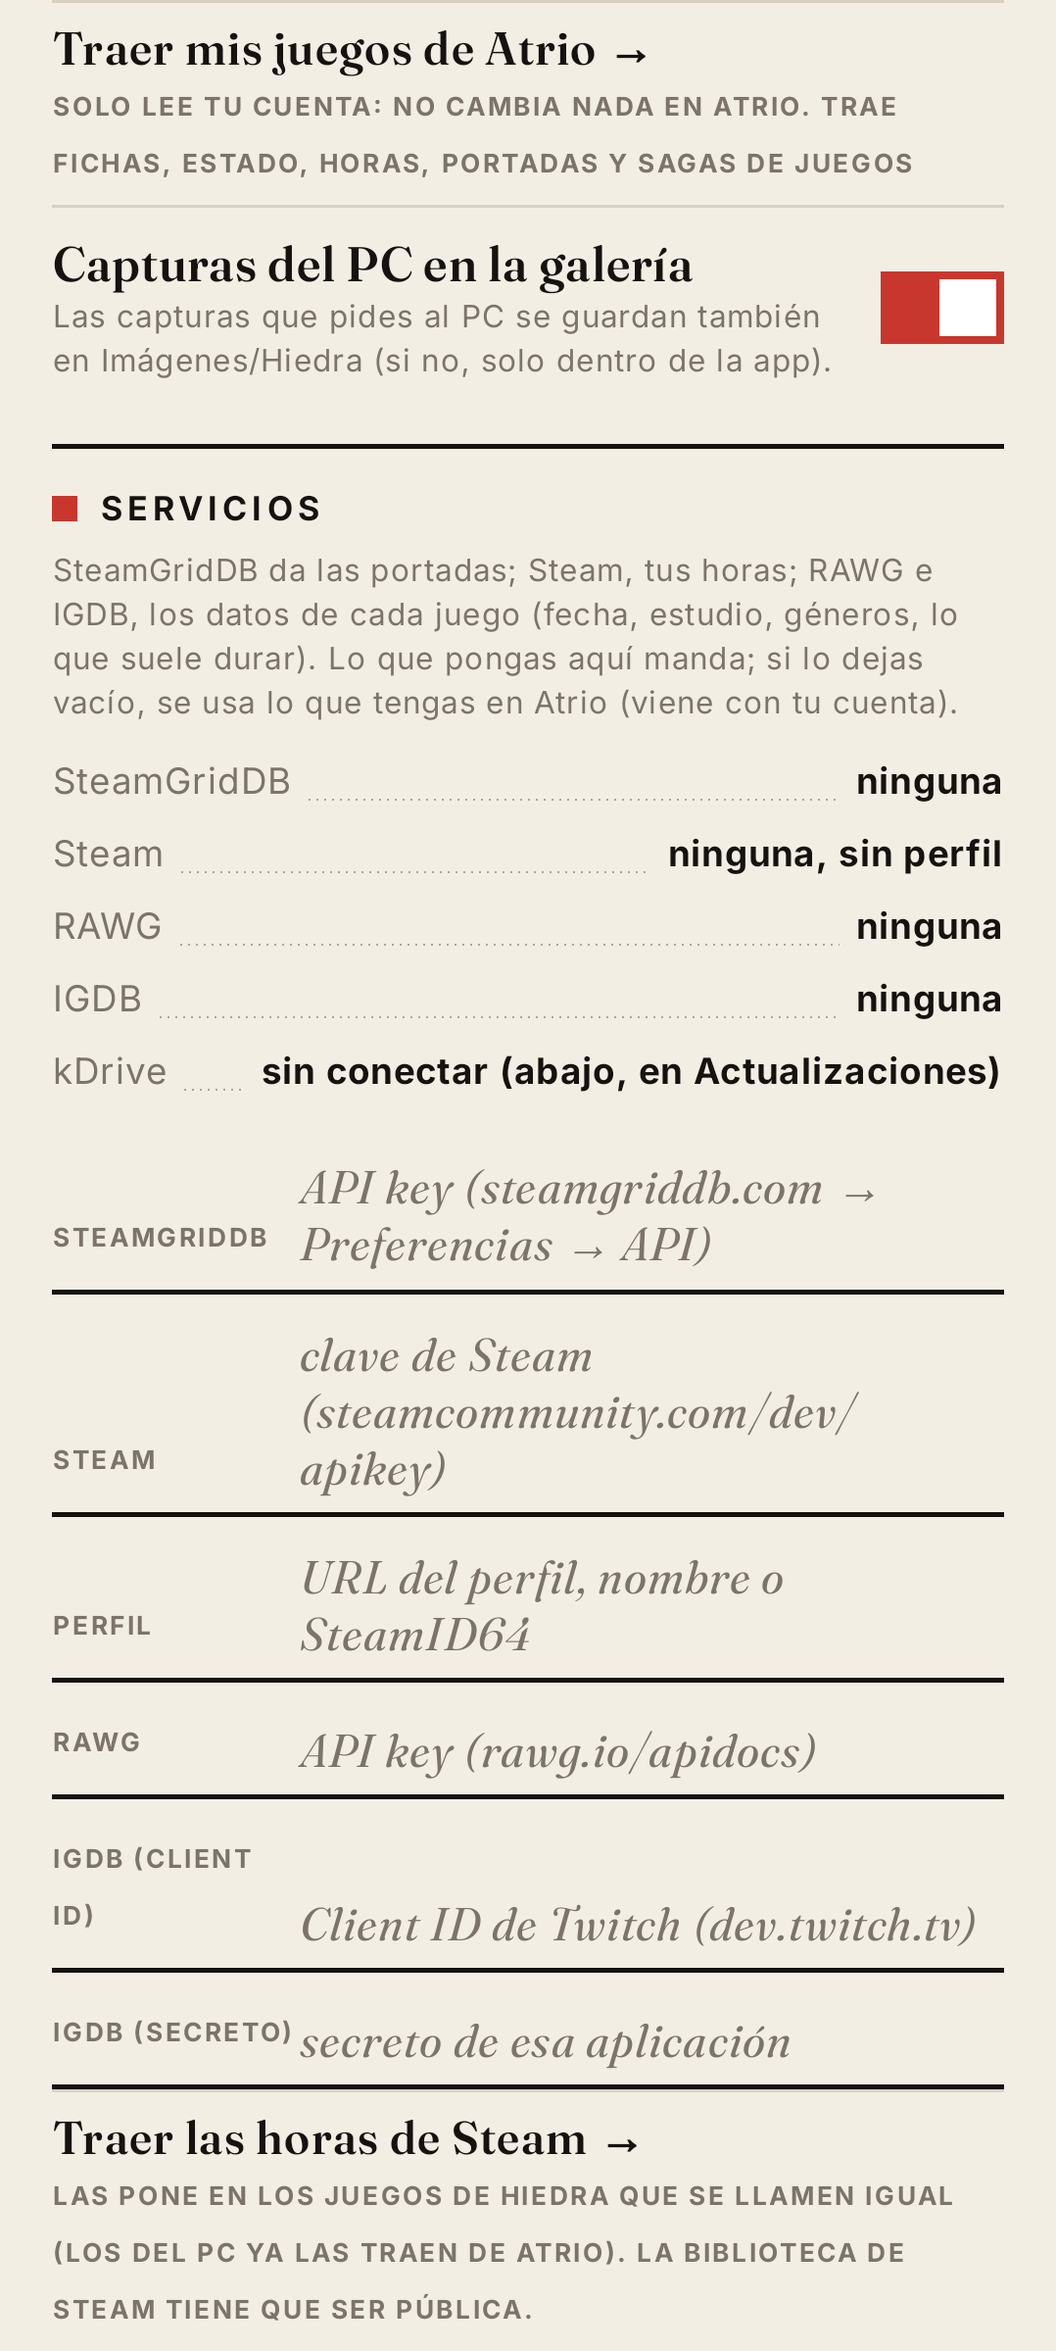
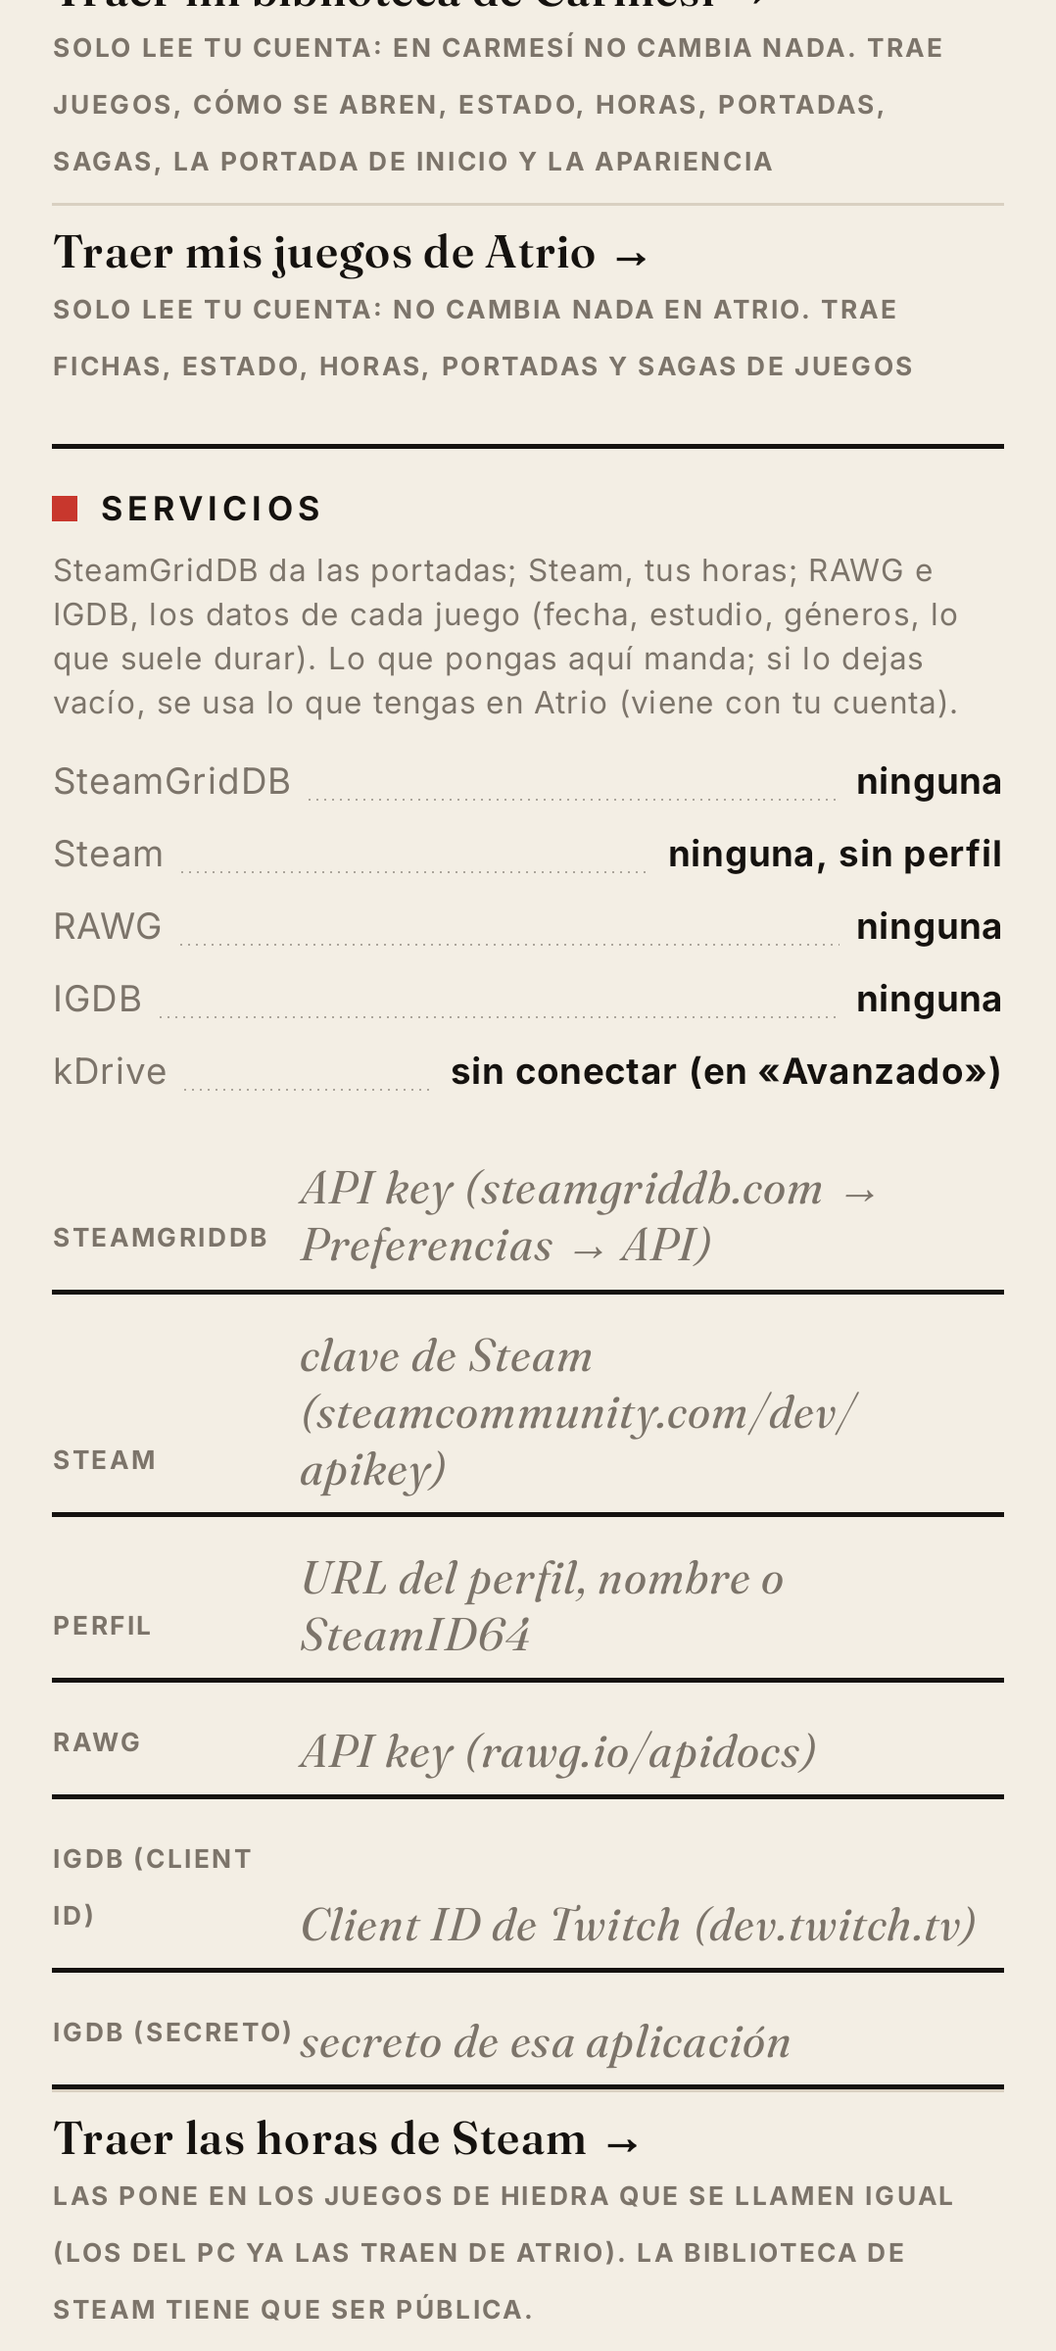
Hiedra 0.3.0: Ajustes en pestañas y la caja automática para Azabache
- Ajustes en pestañas, como Atrio: Apariencia · Juegos (sistemas, portadas
  automáticas, pantalla de inicio, capturas del PC) · Servicios (cuenta de Atrio,
  traer de Carmesí y de Atrio, claves) · Avanzado (kDrive y actualizaciones, copias).
- Un juego sin portada tuya publica la dirección de su caja de libretro («pa»)
  para que Azabache enseñe la misma caja.
- Textos que apuntaban a «Ajustes → Actualizaciones» apuntan a «Avanzado»; la
  cuenta ya no dice que las ROMs no se suben.
- Capturas nuevas de las pestañas. 94 pruebas, 0 fallos.

Claude-Session: https://claude.ai/code/session_01Q4uywen3nuzUg5CTwJaCY5

Changed region(s): [[0.0306, 0.0, 0.949, 0.1851], [0.551, 0.4318, 0.949, 0.4627], [0.2449, 0.4318, 0.5204, 0.4627]]

diff --git a/app/src/main/java/com/gonzalo/hiedra/PantEstilo.kt b/app/src/main/java/com/gonzalo/hiedra/PantEstilo.kt
@@ -15,6 +15,7 @@ import androidx.compose.foundation.rememberScrollState
 import androidx.compose.foundation.verticalScroll
 import androidx.compose.material3.Text
 import androidx.compose.runtime.*
+import androidx.compose.runtime.saveable.rememberSaveable
 import androidx.compose.ui.Alignment
 import androidx.compose.ui.Modifier
 import androidx.compose.ui.graphics.Color
@@ -36,7 +37,7 @@ import androidx.compose.material3.TextButton
 import kotlinx.coroutines.Dispatchers
 import kotlinx.coroutines.withContext
 
-const val VERSION = "0.2.1"
+const val VERSION = "0.3.0"
 
 private fun aliasInicio(c: Context) = ComponentName(c, "com.gonzalo.hiedra.InicioAlias")
 private fun esInicio(c: Context) = c.packageManager.getComponentEnabledSetting(aliasInicio(c)) == PackageManager.COMPONENT_ENABLED_STATE_ENABLED
@@ -55,76 +56,73 @@ fun PantEstilo(alVolver: () -> Unit, alSistemas: () -> Unit = {}) {
     val importar = rememberLauncherForActivityResult(ActivityResultContracts.OpenDocument()) { u ->
         if (u != null) mensaje = runCatching { Biblioteca.leer(ctx.contentResolver.openInputStream(u)!!.use { it.readBytes().decodeToString() }, reemplazar = false); Biblioteca.guardar(); "Copia importada" }.getOrElse { "Ese archivo no es una copia de Hiedra" }
     }
+    var pestana by rememberSaveable { mutableIntStateOf(0) }
     Column(Modifier.fillMaxSize().background(Paper).verticalScroll(rememberScrollState()).statusBarsPadding().navigationBarsPadding().padding(horizontal = 20.dp)) {
         RevistaTopBar(alVolver, "Hiedra")
         Antetitulo("Sección", Modifier.padding(top = 10.dp), color = Acento, conCuadro = false)
         FitTitle("Ajustes", 52.sp, 56.sp, letterSpacing = (-1.5).sp, modifier = Modifier.padding(top = 2.dp), unaLinea = true)
         Filete(3.dp)
+        PestanasRevista(listOf("Apariencia", "Juegos", "Servicios", "Avanzado"), pestana) { pestana = it }
         Spacer(Modifier.height(14.dp))
 
-        SeccionApariencia()
-
-        Spacer(Modifier.height(14.dp))
-        Filete(2.dp)
-        Spacer(Modifier.height(12.dp))
-        Antetitulo("Sistemas", Modifier.padding(bottom = 4.dp))
-        MagLink("Sistemas y emuladores", "Cada consola, con el emulador que elijas, y las carpetas de ROMs", onClick = alSistemas)
-
-        Spacer(Modifier.height(26.dp))
-        Filete(2.dp)
-        Spacer(Modifier.height(12.dp))
-        Antetitulo("Portadas", Modifier.padding(bottom = 4.dp))
-        Fila("Portadas automáticas", "Busca la caja de cada ROM en thumbnails.libretro.com (se envía el nombre del archivo). Si lo desactivas no sale nada a internet.") {
-            Interruptor(Ajustes.portadasLibretro) { Ajustes.portadasLibretro = it; Ajustes.guardar(ctx) }
-        }
-
-        Spacer(Modifier.height(14.dp))
-        Filete(2.dp)
-        Spacer(Modifier.height(12.dp))
-        Antetitulo("Pantalla de inicio", Modifier.padding(bottom = 4.dp))
-        Fila("Usar Hiedra como launcher", if (inicio) "Hiedra ya puede elegirse como pantalla de inicio del móvil." else "Permite elegir Hiedra como pantalla de inicio (Android te lo pregunta).") {
-            Interruptor(inicio) { on ->
-                ctx.packageManager.setComponentEnabledSetting(aliasInicio(ctx), if (on) PackageManager.COMPONENT_ENABLED_STATE_ENABLED else PackageManager.COMPONENT_ENABLED_STATE_DISABLED, PackageManager.DONT_KILL_APP)
-                inicio = on
-                if (on) runCatching { ctx.startActivity(Intent(Settings.ACTION_HOME_SETTINGS).addFlags(Intent.FLAG_ACTIVITY_NEW_TASK)) }
+        when (pestana) {
+            0 -> SeccionApariencia()
+            1 -> {
+                Antetitulo("Sistemas", Modifier.padding(bottom = 4.dp))
+                MagLink("Sistemas y emuladores", "Cada consola, con el emulador que elijas, y las carpetas de ROMs", onClick = alSistemas)
+                Spacer(Modifier.height(26.dp))
+                Filete(2.dp)
+                Spacer(Modifier.height(12.dp))
+                Antetitulo("Portadas", Modifier.padding(bottom = 4.dp))
+                Fila("Portadas automáticas", "Busca la caja de cada ROM en thumbnails.libretro.com (se envía el nombre del archivo). Si lo desactivas no sale nada a internet. Azabache enseña esa misma caja mientras no pongas otra portada.") {
+                    Interruptor(Ajustes.portadasLibretro) { Ajustes.portadasLibretro = it; Ajustes.guardar(ctx) }
+                }
+                Spacer(Modifier.height(14.dp))
+                Filete(2.dp)
+                Spacer(Modifier.height(12.dp))
+                Antetitulo("Pantalla de inicio", Modifier.padding(bottom = 4.dp))
+                Fila("Usar Hiedra como launcher", if (inicio) "Hiedra ya puede elegirse como pantalla de inicio del móvil." else "Permite elegir Hiedra como pantalla de inicio (Android te lo pregunta).") {
+                    Interruptor(inicio) { on ->
+                        ctx.packageManager.setComponentEnabledSetting(aliasInicio(ctx), if (on) PackageManager.COMPONENT_ENABLED_STATE_ENABLED else PackageManager.COMPONENT_ENABLED_STATE_DISABLED, PackageManager.DONT_KILL_APP)
+                        inicio = on
+                        if (on) runCatching { ctx.startActivity(Intent(Settings.ACTION_HOME_SETTINGS).addFlags(Intent.FLAG_ACTIVITY_NEW_TASK)) }
+                    }
+                }
+                Spacer(Modifier.height(14.dp))
+                Filete(2.dp)
+                Spacer(Modifier.height(12.dp))
+                Antetitulo("Tu PC", Modifier.padding(bottom = 4.dp))
+                var galeria by remember { mutableStateOf(Suite.aGaleria()) }
+                Fila("Capturas del PC en la galería", "Las capturas que pides al PC se guardan también en Imágenes/Hiedra (si no, solo dentro de la app).") {
+                    Interruptor(galeria) { galeria = it; Suite.ponAGaleria(it) }
+                }
+            }
+            2 -> {
+                Antetitulo("Cuenta de Atrio", Modifier.padding(bottom = 4.dp))
+                SeccionCuenta()
+                Filete(1.dp, Line)
+                SeccionImportarCarmesi()
+                Filete(1.dp, Line)
+                SeccionImportarAtrio()
+                Spacer(Modifier.height(14.dp))
+                Filete(2.dp)
+                Spacer(Modifier.height(12.dp))
+                Antetitulo("Servicios", Modifier.padding(bottom = 4.dp))
+                SeccionServicios()
+            }
+            else -> {
+                Antetitulo("kDrive y actualizaciones", Modifier.padding(bottom = 4.dp))
+                SeccionActualizaciones()
+                Spacer(Modifier.height(14.dp))
+                Filete(2.dp)
+                Spacer(Modifier.height(12.dp))
+                Antetitulo("Copias", Modifier.padding(bottom = 4.dp))
+                MagLink("Guardar copia de la biblioteca", "Un archivo con tus juegos y carpetas (no incluye las ROMs)") { exportar.launch("hiedra-biblioteca.json") }
+                Filete(1.dp, Line)
+                MagLink("Importar copia", "Suma los juegos de una copia a los que ya tienes") { importar.launch(arrayOf("application/json", "*/*")) }
+                mensaje?.let { Text(it, color = Acento, fontFamily = Display, fontStyle = FontStyle.Italic, fontSize = 15.sp, modifier = Modifier.padding(top = 4.dp)) }
             }
         }
-
-        Spacer(Modifier.height(14.dp))
-        Filete(2.dp)
-        Spacer(Modifier.height(12.dp))
-        Antetitulo("Cuenta de Atrio", Modifier.padding(bottom = 4.dp))
-        SeccionCuenta()
-        Filete(1.dp, Line)
-        SeccionImportarCarmesi()
-        Filete(1.dp, Line)
-        SeccionImportarAtrio()
-        Filete(1.dp, Line)
-        var galeria by remember { mutableStateOf(Suite.aGaleria()) }
-        Fila("Capturas del PC en la galería", "Las capturas que pides al PC se guardan también en Imágenes/Hiedra (si no, solo dentro de la app).") {
-            Interruptor(galeria) { galeria = it; Suite.ponAGaleria(it) }
-        }
-
-        Spacer(Modifier.height(14.dp))
-        Filete(2.dp)
-        Spacer(Modifier.height(12.dp))
-        Antetitulo("Servicios", Modifier.padding(bottom = 4.dp))
-        SeccionServicios()
-
-        Spacer(Modifier.height(14.dp))
-        Filete(2.dp)
-        Spacer(Modifier.height(12.dp))
-        Antetitulo("Actualizaciones", Modifier.padding(bottom = 4.dp))
-        SeccionActualizaciones()
-
-        Spacer(Modifier.height(14.dp))
-        Filete(2.dp)
-        Spacer(Modifier.height(12.dp))
-        Antetitulo("Copias", Modifier.padding(bottom = 4.dp))
-        MagLink("Guardar copia de la biblioteca", "Un archivo con tus juegos y carpetas (no incluye las ROMs)") { exportar.launch("hiedra-biblioteca.json") }
-        Filete(1.dp, Line)
-        MagLink("Importar copia", "Suma los juegos de una copia a los que ya tienes") { importar.launch(arrayOf("application/json", "*/*")) }
-        mensaje?.let { Text(it, color = Acento, fontFamily = Display, fontStyle = FontStyle.Italic, fontSize = 15.sp, modifier = Modifier.padding(top = 4.dp)) }
 
         Spacer(Modifier.height(26.dp))
         Filete(3.dp)
@@ -163,7 +161,7 @@ private fun SeccionCuenta() {
     var ocupado by remember { mutableStateOf(false) }
     var aviso by remember { mutableStateOf<String?>(null) }
     if (!Cuenta.vinculada) {
-        Text("Entra con la misma cuenta que usas en Atrio y tus juegos, horas, notas y diseños de ficha se sincronizan entre tus Hiedras. Las ROMs, los guardados y las imágenes no se suben (todavía).",
+        Text("Entra con la misma cuenta que usas en Atrio y tus juegos, horas, notas y diseños de ficha se sincronizan entre tus Hiedras. Las ROMs, los guardados y las portadas van por tu kDrive (se conecta en «Avanzado»).",
             color = Muted, fontFamily = Body, fontSize = 12.sp, lineHeight = 17.sp, modifier = Modifier.padding(top = 4.dp))
         CampoRevista("Usuario", usuario, "tu usuario de Atrio") { usuario = it }
         CampoRevista("Contraseña", clave, "••••••••", secreto = true) { clave = it }

diff --git a/app/src/test/java/com/gonzalo/hiedra/CapturasTest.kt b/app/src/test/java/com/gonzalo/hiedra/CapturasTest.kt
@@ -114,6 +114,10 @@ class CapturasTest {
         rule.onNodeWithText("VER LA SAGA →", useUnmergedTree = true).performClick(); foto("3g_pagina_saga")
         pulsar("← VOLVER")
         pulsar("← HIEDRA"); rule.onNodeWithContentDescription("Ajustes").performClick(); foto("5_ajustes")
+        rule.onNodeWithText("JUEGOS").performClick(); rule.waitForIdle(); foto("5b_ajustes_juegos")
+        rule.onNodeWithText("SERVICIOS").performClick(); rule.waitForIdle(); foto("5c_ajustes_servicios")
+        rule.onNodeWithText("AVANZADO").performClick(); rule.waitForIdle(); foto("5d_ajustes_avanzado")
+        rule.onNodeWithText("JUEGOS").performClick(); rule.waitForIdle()
         rule.onNodeWithText("Sistemas y emuladores", substring = true).performScrollTo().performClick(); foto("4_sistemas")
         pulsar("← HIEDRA"); pulsar("← HIEDRA"); ir("PASADO")
         rule.onAllNodesWithText("Pokémon Esmeralda", substring = true, useUnmergedTree = true)[0].performClick(); foto("6_ficha")
@@ -207,6 +211,7 @@ class CapturasTest {
         siembra()
         montar(oscuro = false)
         rule.onNodeWithContentDescription("Ajustes").performClick()
+        rule.onNodeWithText("SERVICIOS").performClick(); rule.waitForIdle()
         rule.onNodeWithText("Traer las horas de Steam", substring = true).performScrollTo(); foto("31_ajustes_servicios")
     }
 

diff --git a/app/src/main/java/com/gonzalo/hiedra/Servicios.kt b/app/src/main/java/com/gonzalo/hiedra/Servicios.kt
@@ -247,7 +247,7 @@ fun SeccionServicios() {
     /** Qué hay de cada clave: la tuya, la de Atrio o ninguna. */
     fun estado(mia: String, deAtrio: String) = when { mia.isNotBlank() -> "la tuya"; deAtrio.isNotBlank() -> "la de Atrio"; else -> "ninguna" }
     val resumen = listOf("SteamGridDB" to estado(p.sgdb, atrio.sgdb), "Steam" to estado(p.steamKey, atrio.steamKey) + (if (p.steamUser.isBlank() && atrio.steamUser.isBlank()) ", sin perfil" else ""),
-        "RAWG" to estado(p.rawg, atrio.rawg), "IGDB" to estado(p.igdbId, atrio.igdbId), "kDrive" to (if (KDrive.on(ctx)) "conectado" else "sin conectar (abajo, en Actualizaciones)"))
+        "RAWG" to estado(p.rawg, atrio.rawg), "IGDB" to estado(p.igdbId, atrio.igdbId), "kDrive" to (if (KDrive.on(ctx)) "conectado" else "sin conectar (en «Avanzado»)"))
     Cuerpo("SteamGridDB da las portadas; Steam, tus horas; RAWG e IGDB, los datos de cada juego (fecha, estudio, géneros, lo que suele durar). Lo que pongas aquí manda; si lo dejas vacío, se usa lo que tengas en Atrio (viene con tu cuenta).", tam = 12)
     Column(Modifier.fillMaxWidth().padding(top = 8.dp, bottom = 6.dp)) { resumen.forEach { (n, v) -> MagFact(n, v) } }
     if (mirando) Text("Mirando las de Atrio…", color = Muted, fontFamily = Display, fontStyle = FontStyle.Italic, fontSize = 14.sp)

diff --git a/app/src/main/java/com/gonzalo/hiedra/Mezcla.kt b/app/src/main/java/com/gonzalo/hiedra/Mezcla.kt
@@ -37,6 +37,8 @@ object Mezcla {
         .put("ez", j.zoom.toDouble()).put("eox", j.ox.toDouble()).put("eoy", j.oy.toDouble()).put("dh", j.durHistoria).put("de", j.durExtras).put("dc", j.durCompleto)
         .put("k", JSONArray().also { a -> j.otrasClaves.forEach { a.put(it) } })
         .put("ln", JSONArray().also { a -> j.lanzadores.forEach { a.put(it.aJson()) } })
+        // La portada automática (la caja de libretro de una ROM), para que Azabache enseñe la misma que aquí cuando no hay otra
+        .put("pa", if (j.portadaUrl.isBlank() && Ajustes.portadasLibretro) urlsLibretro(j).firstOrNull().orEmpty() else "")
         .put("msp", j.propias.ms).put("vp", j.propias.veces).put("dd", JSONObject().also { d -> j.propias.dias.forEach { (k, v) -> d.put(k, v) } })
         .put("ex", JSONObject().also { o -> j.externas.forEach { (k, v) -> o.put(k, v.aJson()) } })
 

diff --git a/app/src/main/java/com/gonzalo/hiedra/Actualizador.kt b/app/src/main/java/com/gonzalo/hiedra/Actualizador.kt
@@ -166,7 +166,7 @@ object Actualizador {
     /** Se llama nada más abrir la app y luego cada minuto mientras está abierta (siempre en segundo plano). */
     fun comprueba(ctx: Context, manual: Boolean = false, forzar: Boolean = false) {
         if (!activo(ctx) && !forzar) { if (manual) anota(ctx, "apagada (interruptor de arriba)"); return }
-        if (!KDrive.on(ctx)) { anota(ctx, "kDrive sin conectar (Ajustes → Actualizaciones)"); return }
+        if (!KDrive.on(ctx)) { anota(ctx, "kDrive sin conectar (Ajustes → Avanzado)"); return }
         if (!hayInternet(ctx)) { anota(ctx, "sin internet"); return }
         if (!ocupado.compareAndSet(false, true)) return
         try { compruebaYa(ctx) } catch (e: Throwable) { anota(ctx, "error: ${e.message ?: e.javaClass.simpleName}") } finally { ocupado.set(false) }

diff --git a/app/src/main/java/com/gonzalo/hiedra/NubeP.kt b/app/src/main/java/com/gonzalo/hiedra/NubeP.kt
@@ -180,7 +180,7 @@ object NubeP {
         } finally { tmp.delete() }
     }
 
-    /** ¿Subir las ROMs solas? (con wifi; el interruptor está en Ajustes → Actualizaciones y nube) */
+    /** ¿Subir las ROMs solas? (con wifi; el interruptor está en Ajustes → Avanzado) */
     fun romsSolas(c: Context) = prefs(c).getBoolean("roms_solas", true)
     fun ponRomsSolas(c: Context, v: Boolean) { prefs(c).edit().putBoolean("roms_solas", v).apply() }
 

diff --git a/docs/CONTRATO-DATOS.md b/docs/CONTRATO-DATOS.md
@@ -26,7 +26,7 @@ enlaza buscando esa clave en `k` de los juegos; a partir de ahí, por `id`.
 
 | Nodo | Contenido | Quién escribe |
 |---|---|---|
-| `dev/<dispositivo>/data` | La biblioteca de ese dispositivo (texto JSON `v:1`): por juego `id`, `t` título, `pl` plataforma, `es` estado (`JUGANDO`/`PENDIENTE`/`PASADO`/`ABANDONADO`), `f` favorito, `fi` cuándo lo pasó (ms), `an` añadido, `ul` última vez, `mod`, `k` claves, `ln` lanzadores (`[{tp, k, s, a, pk, u, o, pck, pcd, em}]`), `pu` portada de internet, `ez`/`eox`/`eoy` encuadre, `dh`/`de`/`dc` lo que suele durar (minutos), `msp` ms jugados en ese dispositivo, `vp` veces, `dd` ms por día (`"AAAA-MM-DD"` → ms), `ex` fuentes externas (`{steam: {ms, dd}, "pc:<pc>": {ms, dd}, "carmesi:<dispositivo>": {ms, v, dd}}`; `carmesi:` es lo jugado en Carmesí antes de pasarse a Hiedra, importado una vez); `borrados` (id → hora); `sg` sagas (`id`, `n` nombre, `j` ids en orden, `mod`) y `sgb` sagas borradas; `ini` la portada (`mod`, `d` destacado, `f` estantes `{e, g, on}`, `k` «Mis elegidos» (ids)); `aj` la apariencia. **Pesado**: no leerlo para listados. | cada Hiedra, solo el suyo |
+| `dev/<dispositivo>/data` | La biblioteca de ese dispositivo (texto JSON `v:1`): por juego `id`, `t` título, `pl` plataforma, `es` estado (`JUGANDO`/`PENDIENTE`/`PASADO`/`ABANDONADO`), `f` favorito, `fi` cuándo lo pasó (ms), `an` añadido, `ul` última vez, `mod`, `k` claves, `ln` lanzadores (`[{tp, k, s, a, pk, u, o, pck, pcd, em}]`), `pu` portada de internet, `pa` portada automática (la caja de libretro de la ROM; solo si no hay `pu`), `ez`/`eox`/`eoy` encuadre, `dh`/`de`/`dc` lo que suele durar (minutos), `msp` ms jugados en ese dispositivo, `vp` veces, `dd` ms por día (`"AAAA-MM-DD"` → ms), `ex` fuentes externas (`{steam: {ms, dd}, "pc:<pc>": {ms, dd}, "carmesi:<dispositivo>": {ms, v, dd}}`; `carmesi:` es lo jugado en Carmesí antes de pasarse a Hiedra, importado una vez); `borrados` (id → hora); `sg` sagas (`id`, `n` nombre, `j` ids en orden, `mod`) y `sgb` sagas borradas; `ini` la portada (`mod`, `d` destacado, `f` estantes `{e, g, on}`, `k` «Mis elegidos» (ids)); `aj` la apariencia. **Pesado**: no leerlo para listados. | cada Hiedra, solo el suyo |
 | `stamps/<dispositivo>` | Hora de la última subida de ese dispositivo (servidor). | cada Hiedra |
 | `tiempo/<id>/<fuente>` | `{t, k, m, p, total, days, fin}`: título, claves, menú (`pc`/`emulacion`/`android`/`web`), plataforma, ms jugados, `days` (`"AAAA-MM-DD"` → ms) y cuándo lo pasó. `<fuente>` es un dispositivo Hiedra (sus propias horas), `steam` (las de la API de Steam), `pc:<pc>` (las partidas del PC vistas desde el móvil) o `carmesi:<dispositivo>` (lo jugado en Carmesí en ese dispositivo, importado una vez). **Ligero**: es lo que debe leer un Diario. Cada fuente es un solo nodo: no hay nada repetido. Las horas totales del PC NO van aquí: están en `suite/lib/<PC>` (`m`, minutos), que ya publica Atrio del PC. | cada Hiedra (su fuente), cualquier Hiedra (`steam`, `pc:<pc>`) |
 | `nube/portadas/<id>` | La portada que pusiste tú, en kDrive (`f.img`: id, nombre, hash, tamaño). | cualquier Hiedra |
